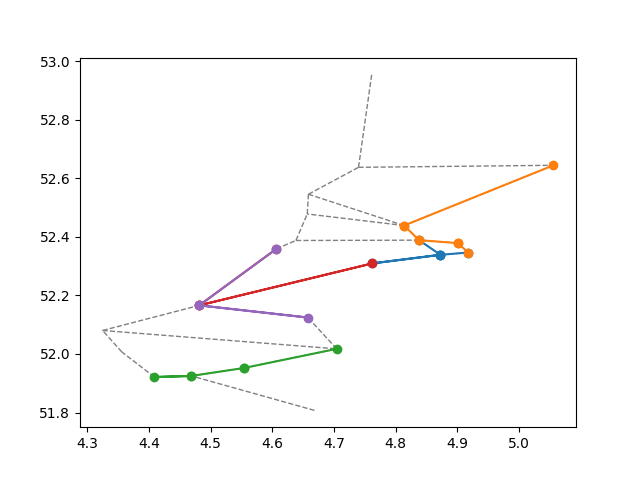
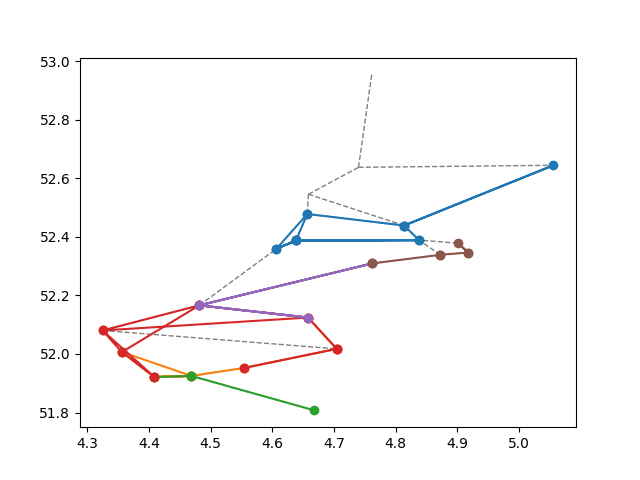
greedy adjustments for testing

diff --git a/main.py b/main.py
@@ -1,6 +1,6 @@
 from code.classes.graph import Graph
 from code.visualisation.visualisation import visualise
-from code.algorithms import randomise
+from code.algorithms import randomise, greedy
 
 
 if __name__ == "__main__":
@@ -12,26 +12,29 @@ if __name__ == "__main__":
     # read connections
     connections = Graph(stations_file, connections_file).connections
 
-    scores = []
-    railmaps = {}
-    tries = 100
+    single_stations = greedy.create_railmap(connections)
+    print(single_stations)
+    
+    # scores = []
+    # railmaps = {}
+    # tries = 100
 
-    for i in range(tries):
-        random_railmap = randomise.create_railmap(connections)
-        score = random_railmap.score()
-        railmaps.update({score : random_railmap})
-        scores.append(score)
+    # for i in range(tries):
+    #     random_railmap = randomise.create_railmap(connections)
+    #     score = random_railmap.score()
+    #     railmaps.update({score : random_railmap})
+    #     scores.append(score)
 
-    scores.sort()
-    max_score = scores[(len(scores) - 1)]
-    min_score = scores[0]
-    print()
-    print(f"Amount of runs: {tries}")
-    print("----------------------------------------------------------------")
-    print(f"lowest score: {min_score}, highest score: {max_score}, average score: {round(sum(scores)/tries)}")
-    print("----------------------------------------------------------------")
-    print()
-    print(railmaps[max_score])
-    visualise(railmaps[max_score], connections)
+    # scores.sort()
+    # max_score = scores[(len(scores) - 1)]
+    # min_score = scores[0]
+    # print()
+    # print(f"Amount of runs: {tries}")
+    # print("----------------------------------------------------------------")
+    # print(f"lowest score: {min_score}, highest score: {max_score}, average score: {round(sum(scores)/tries)}")
+    # print("----------------------------------------------------------------")
+    # print()
+    # print(railmaps[max_score])
+    # visualise(railmaps[max_score], connections)
 
 

diff --git a/code/algorithms/randomise.py b/code/algorithms/randomise.py
@@ -13,9 +13,14 @@ def create_railmap(connections):
 
         # create random route of anywhere between 5 and 120 minutes
         while route.length < random.randint(5, 120):
-            random_connection = random.choice(connection_ids)            
-            route.add_connection(random_connection)
-
+            try:
+                random_connection = random.choice(connection_ids)            
+                route.add_connection(random_connection)
+                connection_ids.remove(route.ids)
+            except:
+                random_connection = random.randint(1, 28)            
+                route.add_connection(random_connection)
+            
         railmap.minutes += route.length
         railmap.visited += route.ids
         railmap.routes.append(route)

diff --git a/code/algorithms/greedy.py b/code/algorithms/greedy.py
@@ -1,14 +1,7 @@
-from code.classes.graph import Graph
-from code.classes.railmap import RailMap
-from code.algorithms import randomise
+def create_railmap(connections):
 
-# read connections
-connections = Graph(stations_file, connections_file).connections
+    stations = sum(set(map(lambda connection: (connection.station1, connection.station2), connections)),[])
 
-railmap = RailMap(connections)
+    single_stations = tuple(filter(lambda station: stations.count(station) == 1,stations))
 
-stations = sum(set(map(lambda connection: (connection.station1, connection.station2), connections)),[])
-
-single_stations = tuple(filter(lambda station: stations.count(station) == 1,stations))
-
-print(single_stations)
+    return single_stations
